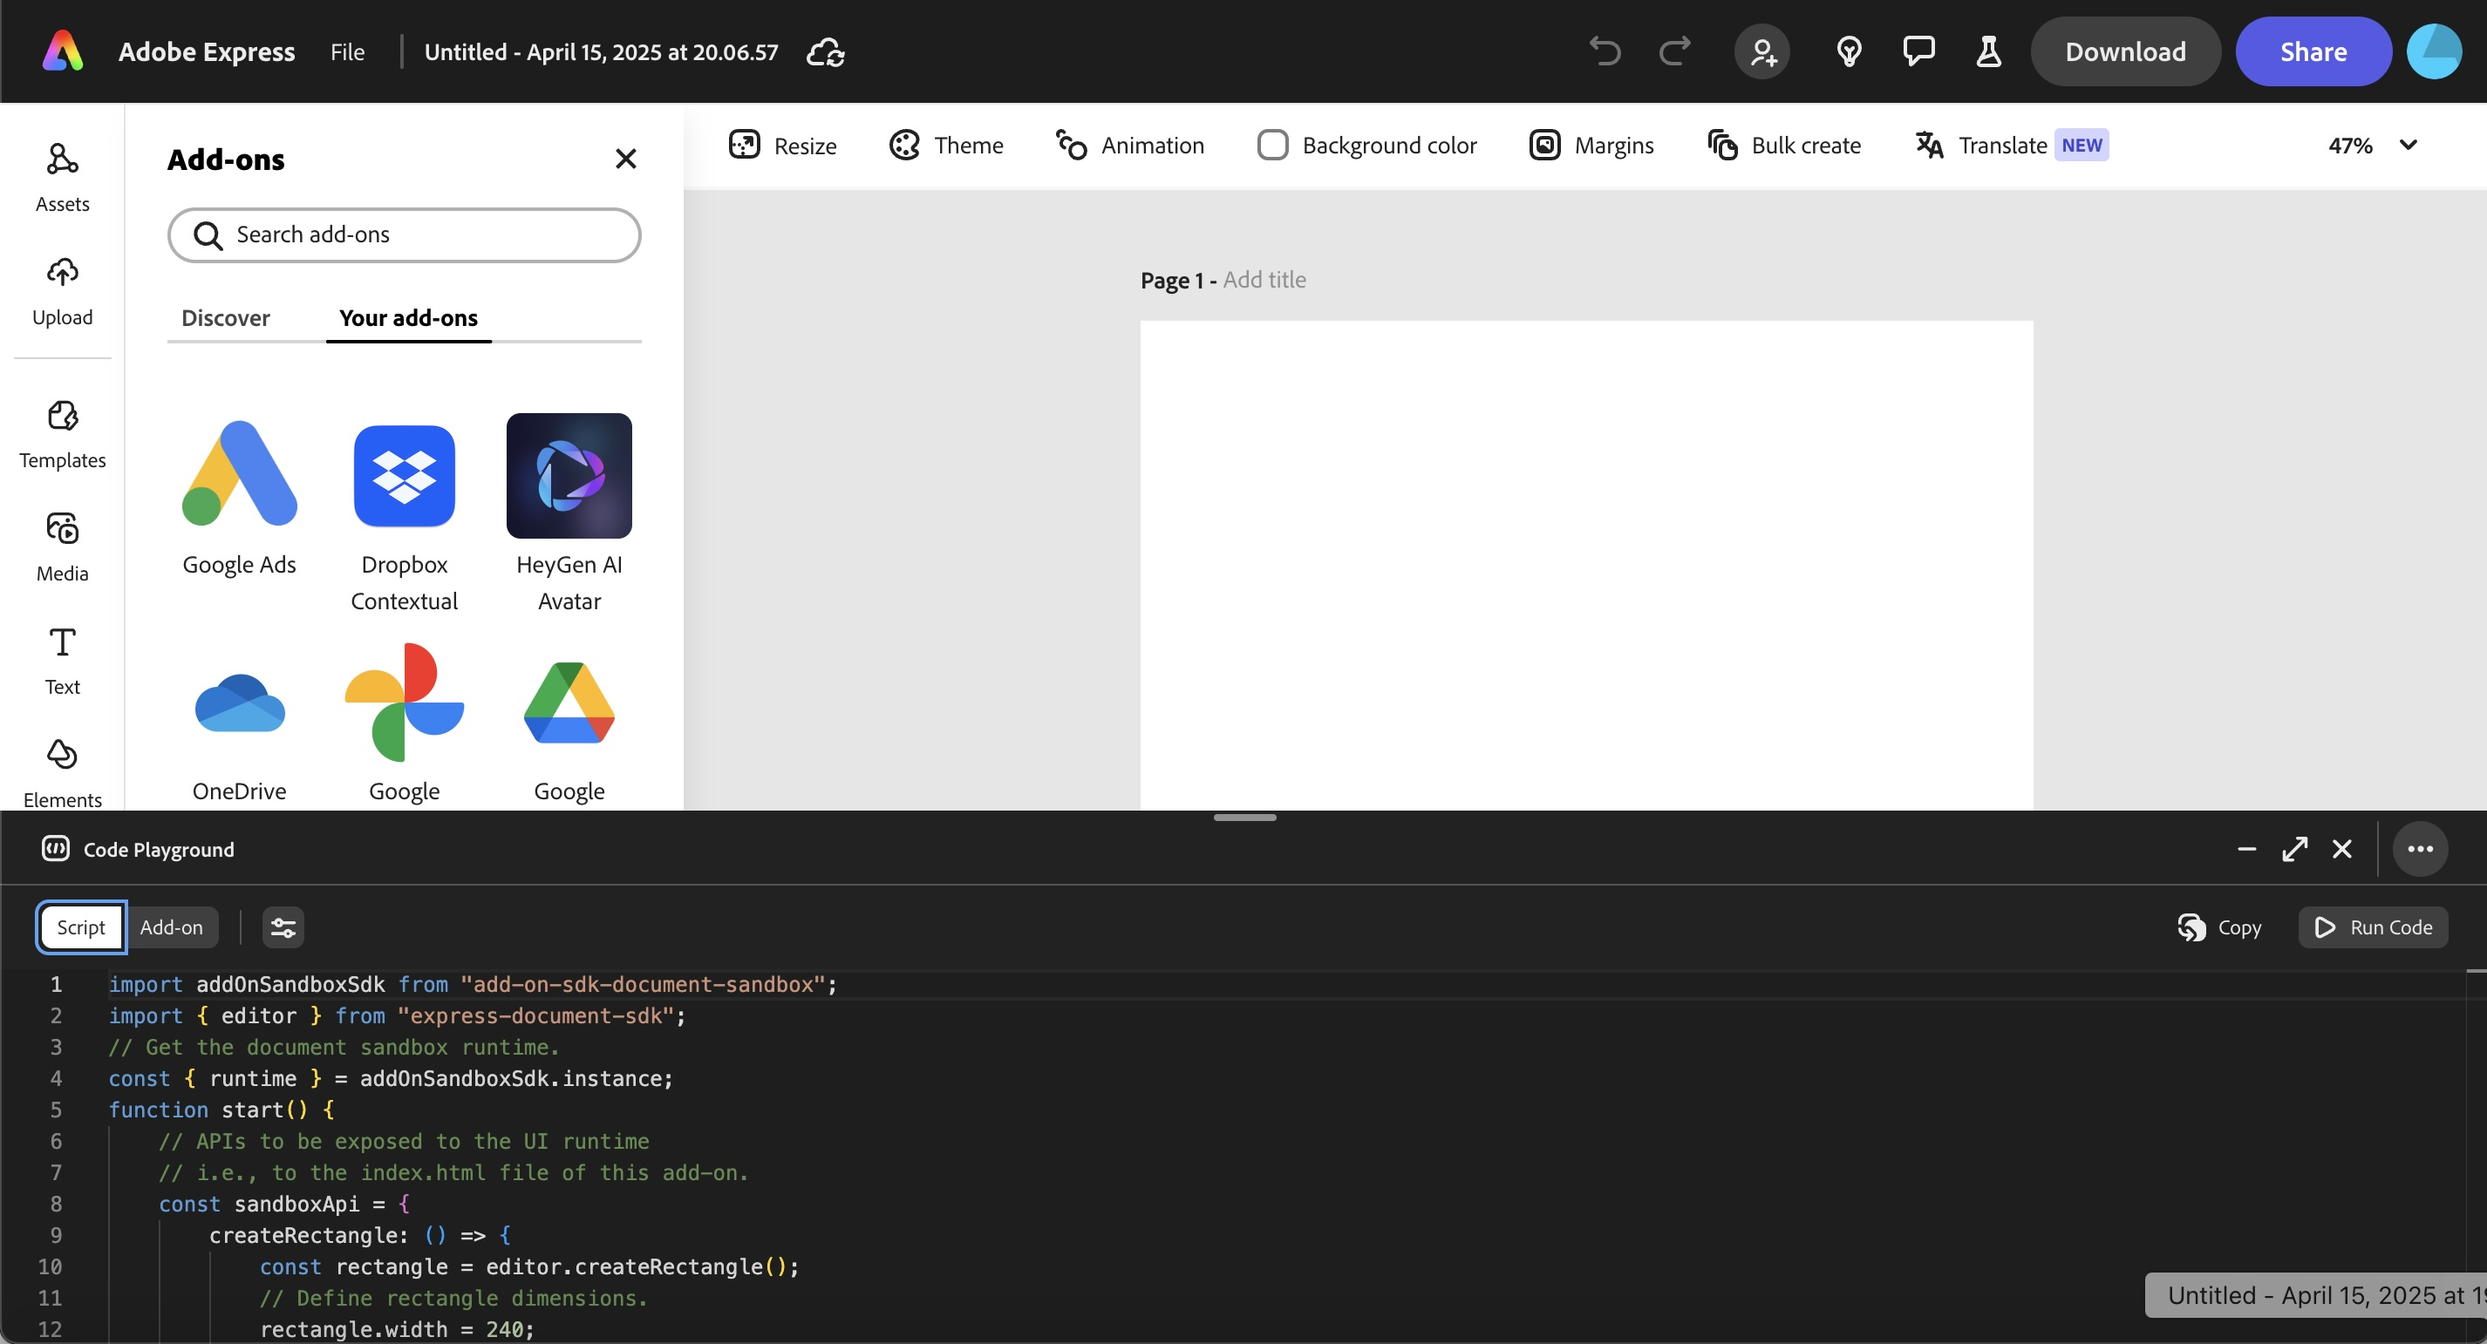
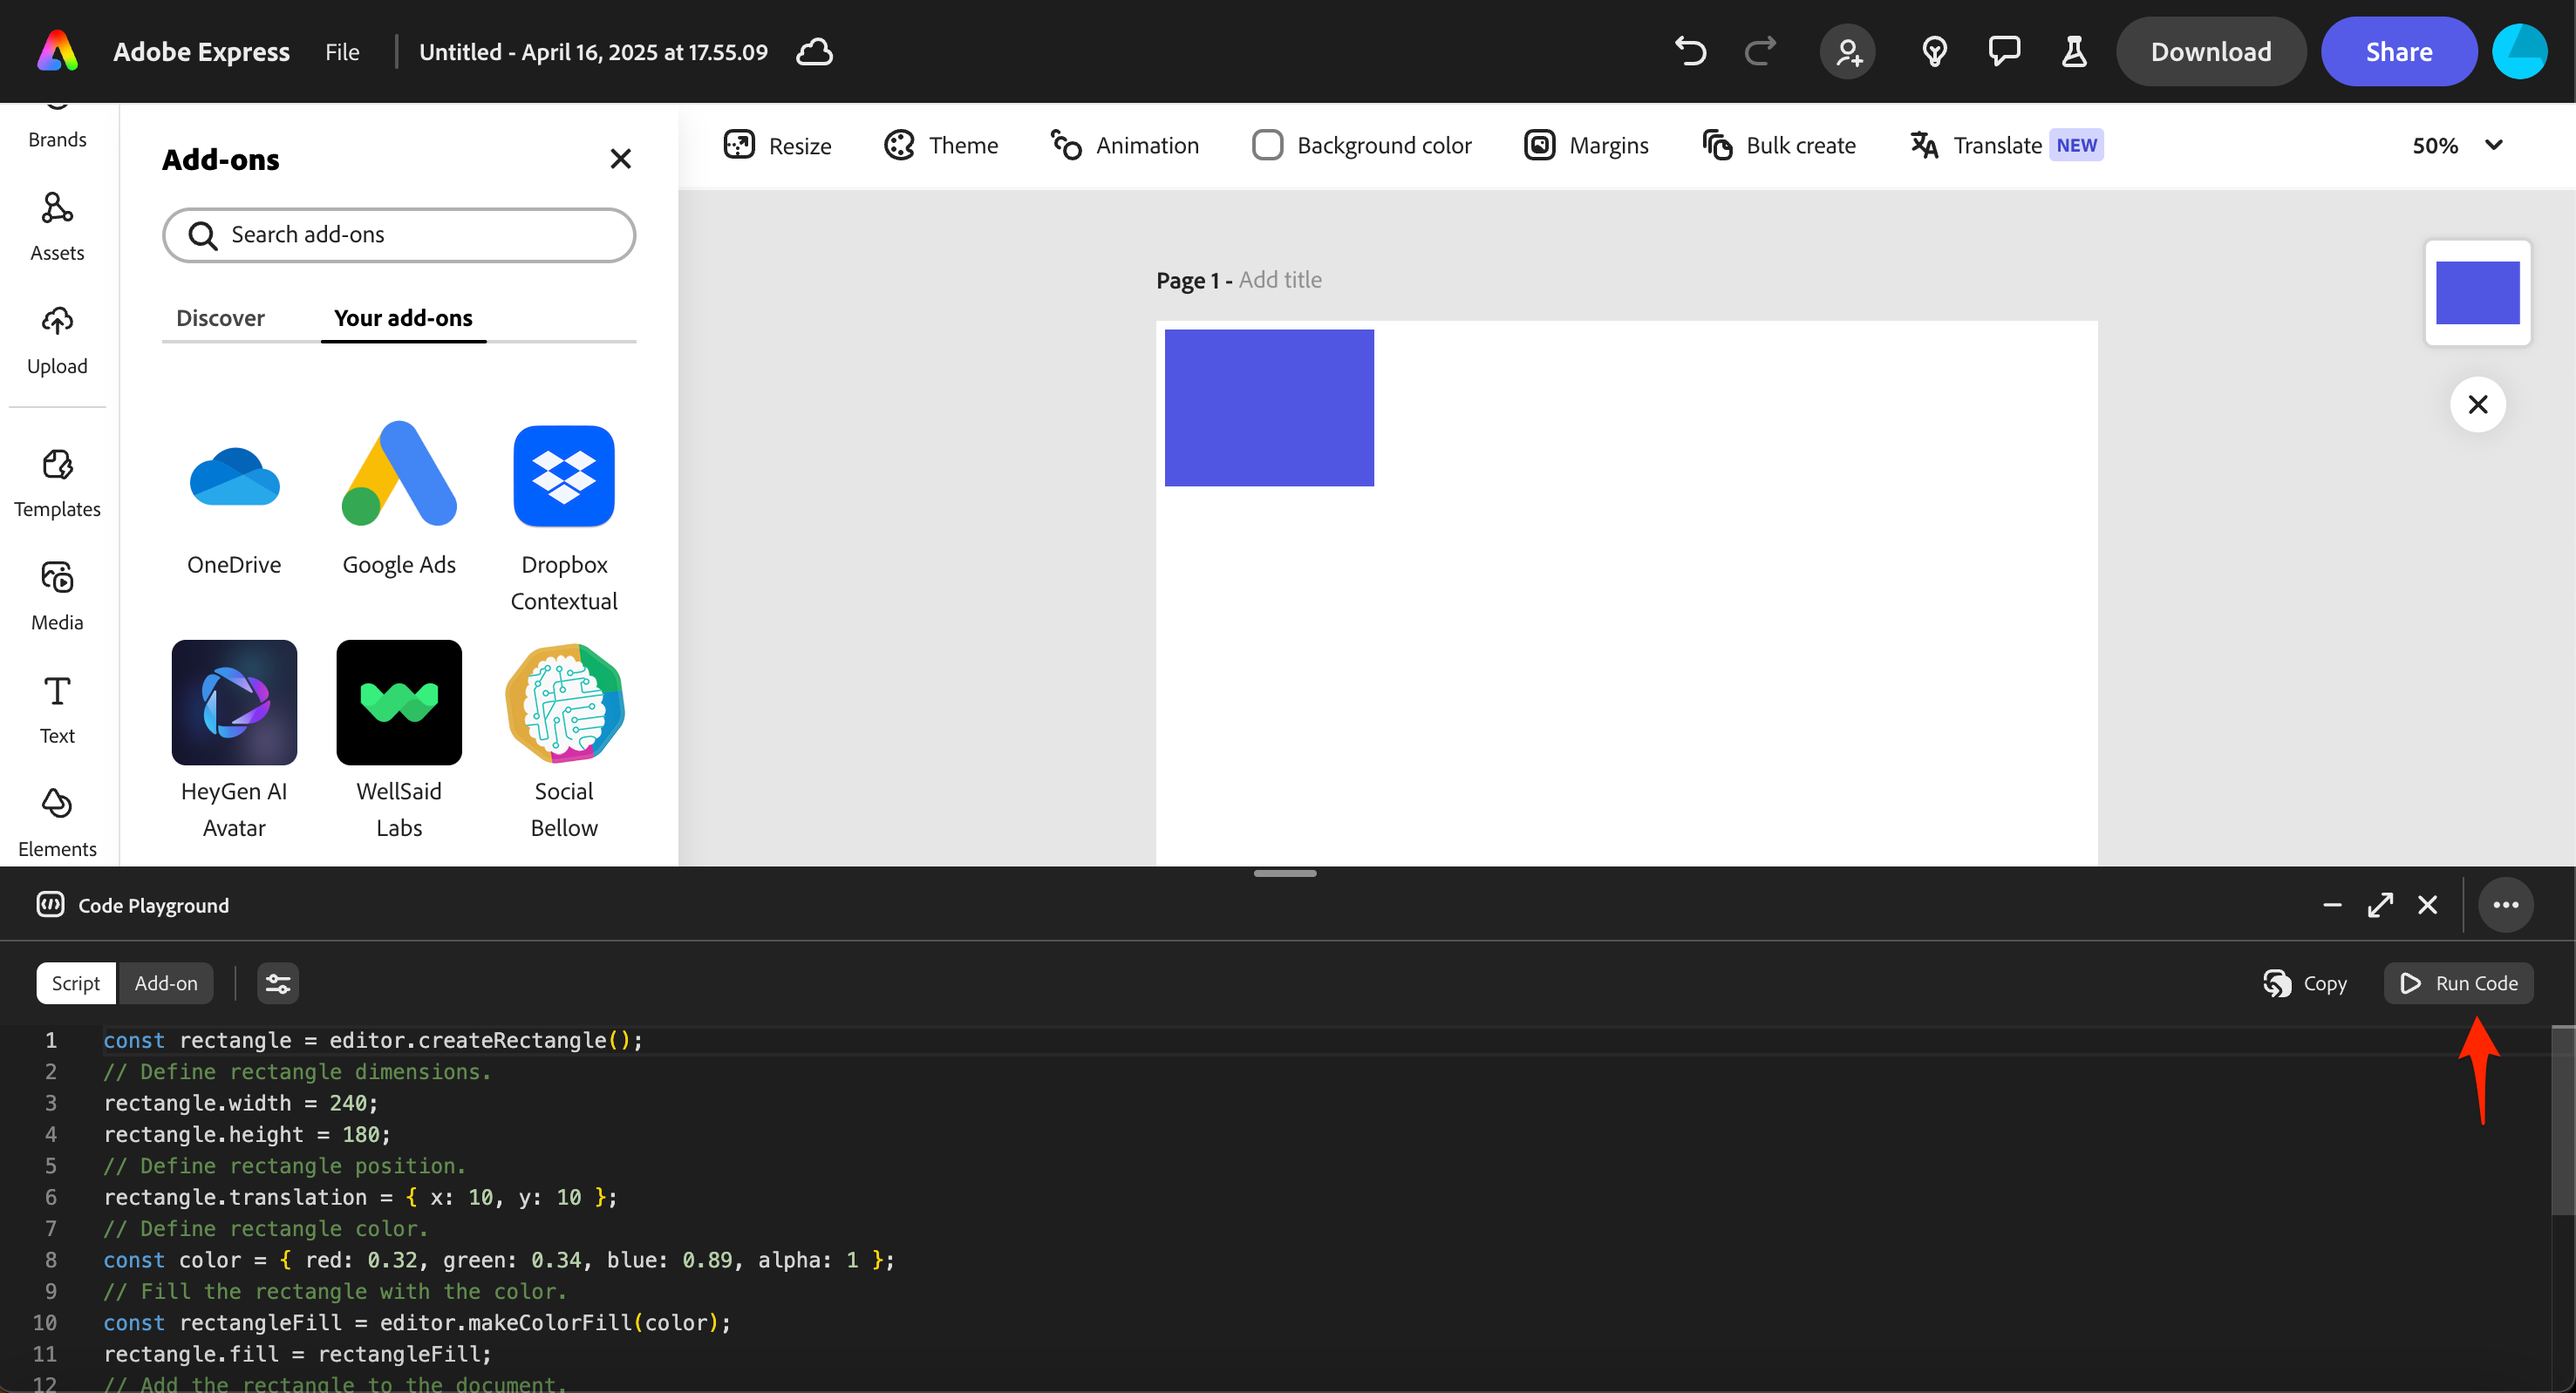
More updates to guide and screenshots

Changed region(s): [[0.0, 0.0, 1.0, 1.0], [0.9362, 0.1556, 0.9986, 0.3113]]

diff --git a/src/pages/guides/getting_started/code_playground.md b/src/pages/guides/getting_started/code_playground.md
@@ -49,8 +49,10 @@ The Code Playground is designed for:
 | **Real-Time Preview** | See your changes as you code, allowing for immediate feedback and faster adjustments. |
 | **Effortless Prototyping** | Quickly turn ideas into add-ons with minimal setup. |
 | **Rapid Implementation** | Fast-track your prototype to a product by directly pasting your code into an add-on template. |
-| **Script Mode** | An easy way to interact with the Document APIs operations quickly. |
-| **Local Persistence** | Your work can be saved to your browser's local storage to prevent accidental loss. |
+| **Script Mode** | An easy way to interact with the Document APIs quickly. |
+| **Programming Assistance** | Typed definitions and auto-completion. |
+| **Default Boilerplate Code** | Default boilerplate code for each tab helps you get started quickly. |
+| **Local Persistence** | Save your work to your browser's local storage and resume where you left off, preventing accidental loss. |
 | **Keyboard Shortcuts** | Use keyboard shortcuts to save, run, and reset your code quickly. |
 
 <!-- Check out the video below for a quick introduction to the add-on playground features.
@@ -74,14 +76,14 @@ There are numerous opportunities for using the Code Playground to help you throu
 
 ### Step 1: Enable Add-on Development Mode
 
-- Open Adobe Express settings by clicking the gear icon
-- Enable "Add-on Development Mode" if not already enabled
+- From your avatar icon in the top right corner, click the gear icon to open the Adobe Express settings
+- Enable "Add-on Development" if not already enabled
 
-![Adobe Express Settings](./img/settings_alt.png)
+  ![Adobe Express Settings](./img/settings_alt.png)
 
 ### Step 2: Open Code Playground
 
-- With any document open, click the "Add-ons" button in the left sidebar
+- With any document open, click the "Add-ons" button in the left rail
 - Select the "Your add-ons" tab
 - Toggle on "Code Playground" at the bottom of the panel
 
@@ -93,11 +95,12 @@ There are numerous opportunities for using the Code Playground to help you throu
   
 ## Choose Your Development Mode
 
-The playground offers two distinct development modes, each designed for different development needs:
+The playground offers two distinct development modes:
 
-### Comparison of Modes
+- **Script Mode**: Experiment with the Document APIs directly
+- **Add-on Mode**: Build complete add-on UI and functionality
 
-The playground offers two distinct development modes, each designed for different development needs:
+A comparison of the two modes is below:
 
 | Feature | Script Mode | Add-on Mode |
 |---------|-------------|-------------|
@@ -109,39 +112,48 @@ The playground offers two distinct development modes, each designed for differen
 
 ### When to Use Script Mode
 
-- When focusing on document manipulation operations
-- For quickly testing API calls without UI considerations
-- When learning how the [Document APIs](../../references/document-sandbox/document-apis/index.md) work
+- To learn how the [Document APIs](../../references/document-sandbox/document-apis/index.md) work
+- To quickly test Document API calls without UI considerations
 
-#### How to Use Script Mode:
+### How to Use Script Mode:
 
 1. Select the "Script" button in the top left corner of the playground window.
 2. Enter your [Document API](../../references/document-sandbox/document-apis/index.md) code in the editor. Manipulate the document directly, add shapes or text, change styles, and more using the automatically available [`editor`](../../references/document-sandbox/document-apis/classes/Editor.md) object.
-3. Execute your script by clicking "Run" to see changes in the current document.
+3. Execute your script by clicking the "Run Code" button in the top right corner of the playground window to see changes in the current document.
 
   ![Code Playground Script Mode](./img/script-mode.png)
 
-### Add-on Mode Overview
+4. (Optionally) If you want to use Document APIs that are currently marked experimental, click on the [manifest properties](../../references/manifest/index.md#experimentalapis) icon next to the mode buttons (outlined below) and toggle "experimentalApis" to enable them:
 
-The "Add-on" mode allows you to develop and test an add-on directly in Adobe Express, without having to set up a full development environment. This mode is designed to help you build the user interface and logic of your add-on in the provided tabs using HTML, CSS, and JavaScript. This mode allows you to iterate quickly on your development process and see the results without ever leaving the Adobe Express environment.
+  ![Script Mode Manifest Settings](./img/manifest-props-script.png)
 
-#### How to Use Add-on Mode:
+### When to Use Add-on Mode
+
+- To develop and test an add-on directly in Adobe Express, without having to set up a full development environment
+- To prototype an add-on before building a full project
+- To iterate quickly on your add-on's UI and logic
+
+### How to Use Add-on Mode:
 
 1. Click on the "Add-on" button on the right of the "Script" button in the top left corner of the playground window.
-2. Write code for your add-on in each of the supplied tabs (described below). This includes HTML, CSS, and JavaScript code that will run in the iframe UI and (optionally) call the Document APIs to interact directly with the Express document (optionally).
-3. Click "Run" to execute your script directly on the current document.
+2. Write code for your add-on in each of the supplied tabs (described below). This includes HTML, CSS, and JavaScript code that will run in the iframe UI or in the Document Sandbox to interact directly with the Express document (optionally).
+3. Click "Run Code" to execute your add-on. Your add-on should open in an iframe on the right side of the Adobe Express window, ie:
 
   ![Code Playground Add-on Mode](./img/addon-mode.png)
 
-### HTML Tab
+4. If you need to set [manifest properties](../../references/manifest/index.md) for your add-on (for instance if you want to use APIs that are currently marked experimental), click on the manifest properties icon next to the mode buttons (outlined below) to enable them:
+
+  ![Add-on Mode Manifest Settings](./img/manifest-props-addon.png)
+
+#### HTML Tab
 
 This tab is for writing HTML code that defines the structure of your add-on's user interface. You can create elements like buttons, text fields, and layout containers here. Functionally, this tab mirrors the role of the `index.html` file you'd use in a typical add-on project.
 
-### CSS Tab
+#### CSS Tab
 
 Style your add-on's HTML elements in this tab. Create a visually appealing interface consistent with Adobe Express design patterns. This section corresponds to the `styles.css` file in a standard add-on project.
 
-### Iframe JS Tab
+#### Iframe JS Tab
 
 This tab is for writing JavaScript code that runs in the iframe context of your add-on. Here, you can interact with:
 
@@ -151,7 +163,7 @@ This tab is for writing JavaScript code that runs in the iframe context of your 
 
 This environment corresponds to the code you would typically write in your `index.js` or UI JavaScript files in a full add-on project.
 
-### Document JS Tab
+#### Document JS Tab
 
 This tab is where you write JavaScript code that interacts directly with the Adobe Express document. It runs in the [Document Sandbox](../../references/document-sandbox/index.md) environment and gives you access to:
 
@@ -162,13 +174,13 @@ The Document JS tab corresponds to the code typically found in the `code.js` fil
 
 ### Transitioning from Script Mode to Add-on Mode
 
-Once you've developed your code in Script mode, you can easily transition to Add-on mode to build a user interface around your functionality. Here's how:
+Once you've tested your code in Script mode, you can easily transition it into the Add-on mode to build a user interface around your new functionality. Here's how:
 
-1. Use the "Copy" button in the top right corner of the playground while in Script mode to quickly copy your code to the clipboard.
-2. Click the "Add-on" button next to the "Script" button in the top left corner of the playground.
+1. Use the "Copy" button in the right corner to quickly copy your code to the clipboard.
+2. Click the "Add-on" button to enter Add-on mode.
 3. Paste the code into the "Document JS" tab.
-4. Modify your script code as needed to be used in the add-on context along with your front-end logic in the HTML, Iframe, and CSS tabs. Use the initial sample code provided as a reference.
-5. Use the "Run" button in Add-on mode to execute your code within the context of your add-on.
+4. Modify your script code to be used in the add-on context along with your front-end logic in the HTML, Iframe, and CSS tabs. Use the initial sample code provided as a reference.
+5. Click the "Run Code" button in Add-on mode to execute your code within the context of your add-on.
 
 ## Workflow Tips
 
@@ -194,12 +206,14 @@ Code in the playground is not saved automatically, but you can ensure it's saved
   2. Run the code via the "Run Code" button or with the keyboard shortcut for Run [(above)](#keyboard-shortcuts)
   3. When exiting the playground
 
-<InlineAlert slots="text" variant="warning">
+<InlineAlert slots="header, text1, text2, text3, text4" variant="warning">
 
-  - Storage is browser-specific (not synced across devices)
-  - Code is not saved in incognito/private browsing modes
-  - Clearing browser data will delete saved code
-  - Only your most recent session is saved
+##### IMPORTANT
+
+- Only your most recent session is saved
+- Storage is browser-specific (not synced across devices)
+- Code is not saved in incognito/private browsing modes
+- Clearing browser data will delete saved code
 
 </InlineAlert>
 
@@ -223,27 +237,25 @@ There are two ways to resume working on your last saved session:
 
   ![Manage Your add-ons page](./img/playground-sessions.png)
 
-<InlineAlert slots="text" variant="info">
+<InlineAlert slots="header, text1, text2" variant="info">
 
-You can access the "Your add-ons" page in two ways:
+#### Accessing "Your add-ons" page
 
 - **Without a document open:** Click the Add-ons button in the left rail, then click the Add-on development toggle in the top right.
 - **With a document open:** Click the Add-ons button in the left rail, select the "Your add-ons" tab, then click the "Manage add-ons" link in the Add-on Testing section.
 
 </InlineAlert>
 
-## Next steps
+## Resources
 
-- **Experiment with Common Use Cases:** Begin by experimenting with some [common use cases](../develop/how_to.md) to kickstart your development.
-- **Start with Code Samples:** Check out [these samples](../../samples.md) to see what's possible and get inspired.
-- **Understand Add-on Concepts:** Get familiar with the fundamentals of building add-ons.
+- **How-To Guides:** Begin by experimenting with the code snippets found in our [how-to guides](../develop/how_to.md) to kickstart your development.
+- **SDK/API References:** Discover more about what you can do in your add-on by exploring our [SDK References](../../references/index.md).
+- **Code Samples:** Get inspired by checking out [our code samples](../../samples.md) to see what's possible.
+- **Ask Questions:** Chat with fellow developers on [Discord](http://discord.gg/nc3QDyFeb4).
 
-  - [iFrame Context](../develop/context.md)
-  - [Document Sandbox](../../references/document-sandbox/document-apis/concepts/index.md)
-  - [Manifest File](../../references/manifest/index.md)
+## Next Steps: Build Your Add-on Locally
 
-- **Explore API References:** Discover all available APIs and their capabilities in the [SDK Reference](../../references/index.md).
-- **[Ask Questions](https://developer.adobe.com/express/community/):** Join us for Office Hours or chat with the team on Discord.
+After experimenting with the Code Playground and when you're ready to build out a full-blown add-on in a local development environment, follow our [Quickstart Guide](../develop/quickstart.md) to get up and running quickly. Once you've created your new project, simply copy your code from the Code Playground [Add-on mode tabs](./#add-on-mode) to the corresponding files in your new project to get started!
 
 ## FAQs
 
